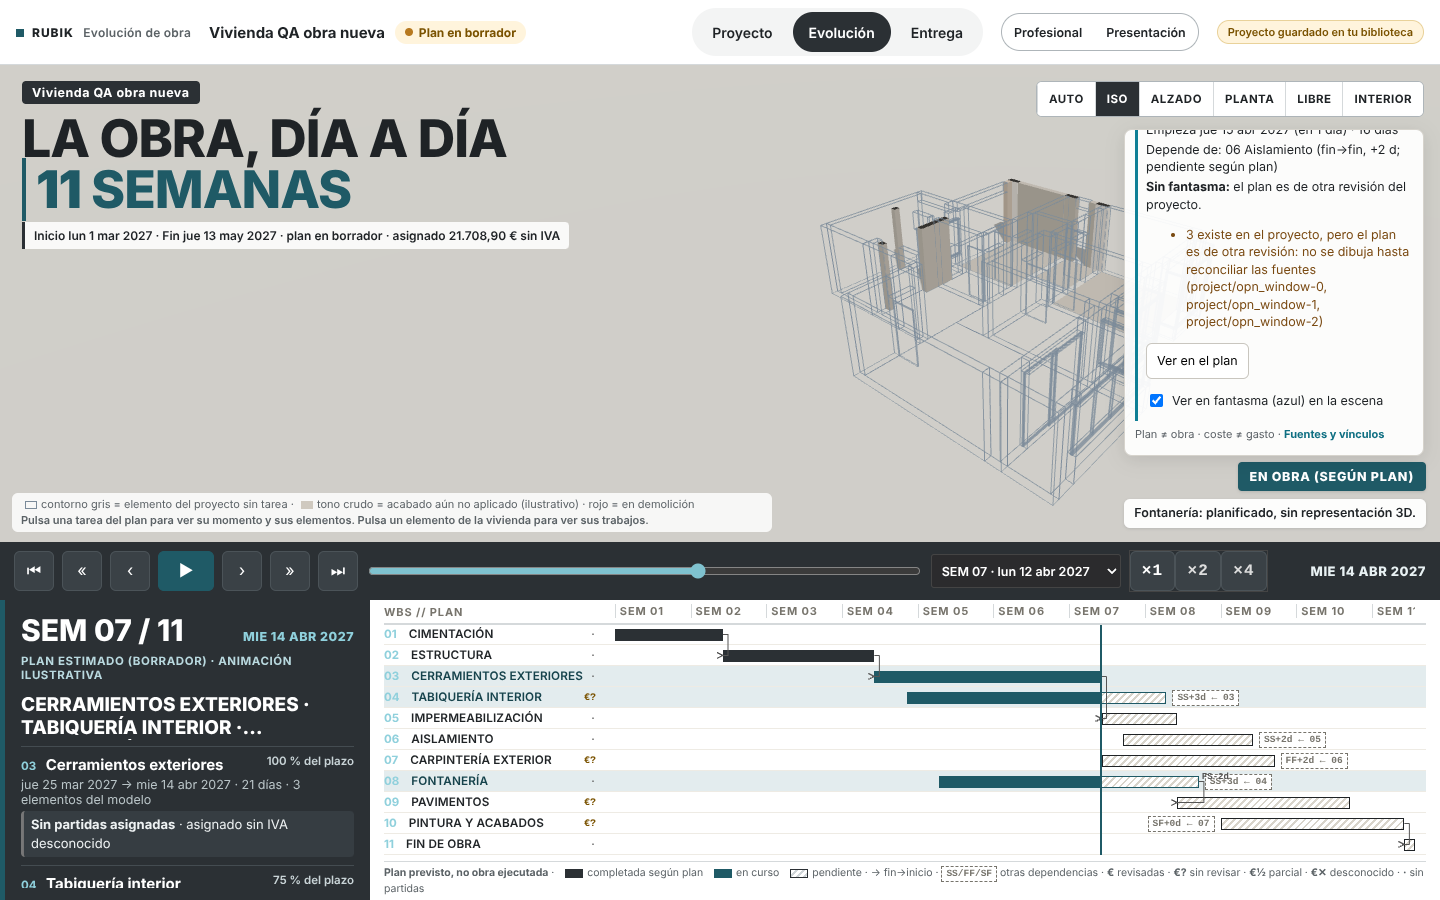
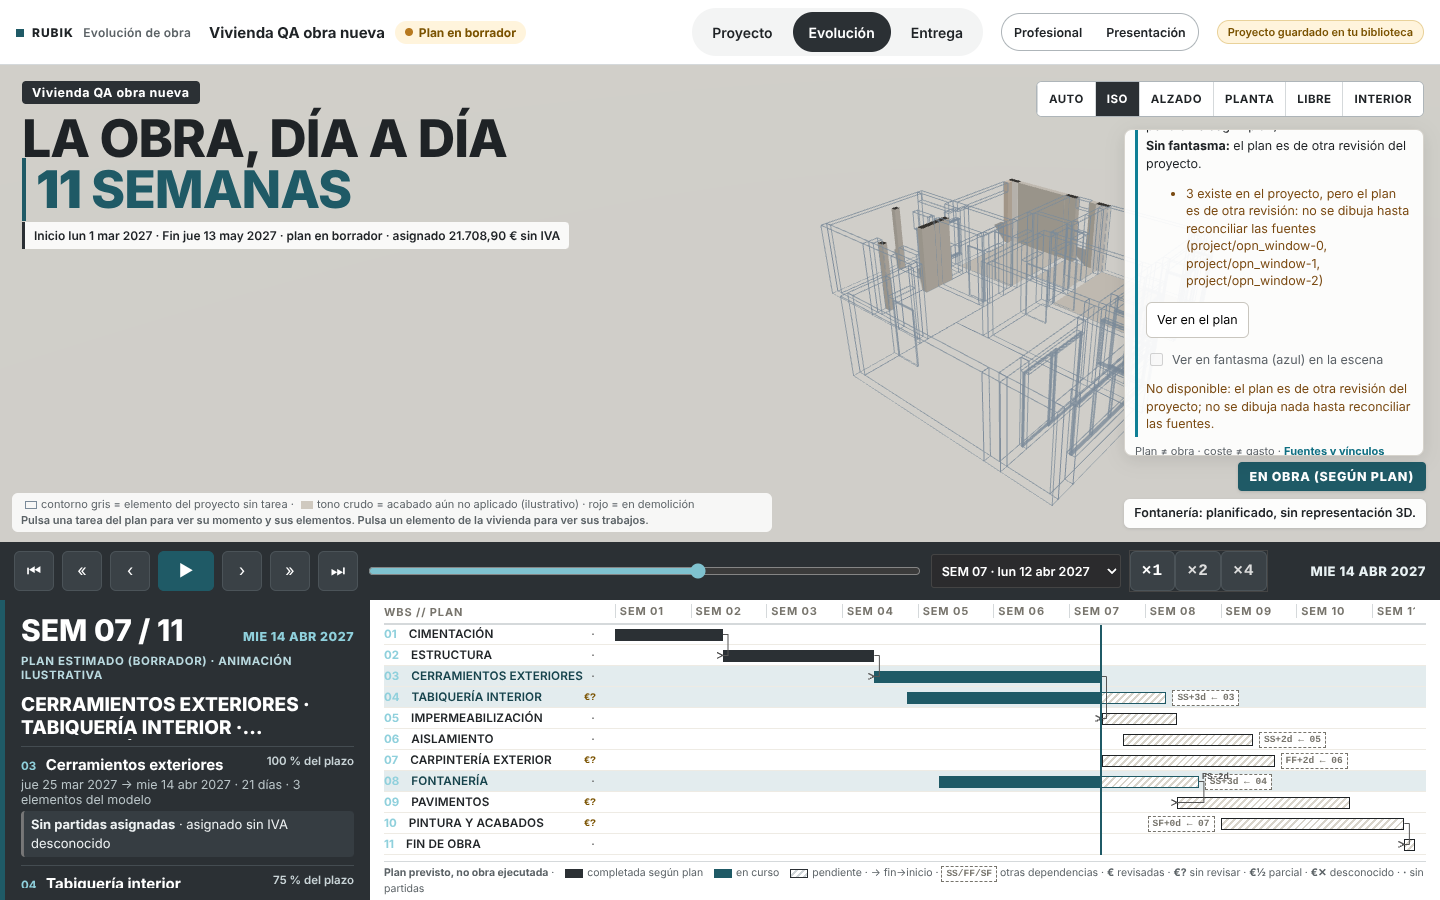
Revisión OBR-02/03: evidencias con la nota de otra revisión y la casilla del fantasma
Recorrido regenerado sobre esta rama (8e956fe, servida en local): 14/14 pasos, escritorio
1440×900 y móvil 390×844, sin errores de página ni hosts externos.
- 5c: nivel «Presentación orientativa» con «plan de otra revisión · no validado sobre la actual».
- 5d: «Ver en fantasma» deshabilitada, desmarcada y con su motivo.
- El caso 4 comprueba además la nota de nivel en el adversarial («Vista interna exploratoria · …»).
Textos de la página de revisión actualizados. Datos SINTÉTICOS y precios FICTICIOS.

Claude-Session: https://claude.ai/code/session_01QDzoLfqQpuKy2DPCpzcETs

Changed region(s): [[0.7812, 0.1556, 0.9688, 0.5289], [0.6875, 0.4044, 0.75, 0.56]]

diff --git a/review-obr02/index.html b/review-obr02/index.html
@@ -66,7 +66,7 @@ ol{padding-left:1.3em}li{margin:.3em 0}.muted{color:var(--muted)}#status{min-hei
     <button type="button" data-case="adversarial">Cargar y abrir el plan no concordante</button>
     <ol>
       <li>El plan es válido para el contrato, pero se hizo sobre <strong>otra revisión</strong> del proyecto y su tarea 10 cita un muro que <strong>no existe</strong>.</li>
-      <li>En <strong>Fuentes y vínculos</strong>: «hecho sobre OTRA revisión del proyecto», «vínculo(s) del plan apuntan a elementos que no existen» y el nivel baja a «Vista interna exploratoria».</li>
+      <li>En <strong>Fuentes y vínculos</strong>: «hecho sobre OTRA revisión del proyecto», «vínculo(s) del plan apuntan a elementos que no existen» y el nivel baja a «Vista interna exploratoria» (con la nota «plan de otra revisión · no validado sobre la actual»).</li>
       <li>Antes de la tarea 10, su «Siguiente tarea» lista «el identificador no existe en el proyecto: no se dibuja (project/wal_no-existe)». No aparece ningún fantasma: ni el inventado ni el de los elementos que sí existen, porque el plan es de otra revisión.</li>
     </ol>
   </section>
@@ -77,7 +77,8 @@ ol{padding-left:1.3em}li{margin:.3em 0}.muted{color:var(--muted)}#status{min-hei
     <ol>
       <li>El mismo plan del caso 1, sin vínculos rotos: solo cambia la revisión del proyecto sobre la que dice estar hecho.</li>
       <li>Los elementos que cita existen, pero <strong>no se dibuja ningún fantasma</strong> hasta reconciliar las fuentes: la «Siguiente tarea» dice «Sin fantasma: el plan es de otra revisión del proyecto» y lista cada elemento con «existe en el proyecto, pero el plan es de otra revisión».</li>
-      <li>En <strong>Fuentes y vínculos</strong>: «hecho sobre OTRA revisión del proyecto» y el aviso «No se dibuja ningún fantasma de este plan hasta reconciliar las fuentes». El nivel es el que calcula RUBIK (orientativo, bloqueado por revisión no vigente); no sube a plan declarado.</li>
+      <li>En <strong>Fuentes y vínculos</strong>: «hecho sobre OTRA revisión del proyecto» y el aviso «No se dibuja ningún fantasma de este plan hasta reconciliar las fuentes». El nivel es el que calcula RUBIK (orientativo, bloqueado por revisión no vigente; no sube a plan declarado) y a su lado dice «plan de otra revisión · no validado sobre la actual».</li>
+      <li>La casilla «Ver en fantasma» queda deshabilitada con su motivo: no hay nada dibujado. Con un plan concordante vuelve a estar marcada.</li>
     </ol>
   </section>
 

diff --git a/docs/integration/evidencias-obr02-obr03-2026-11-13-reconciliacion/README.md b/docs/integration/evidencias-obr02-obr03-2026-11-13-reconciliacion/README.md
@@ -2,7 +2,7 @@
 
 Recorrido `tests/obr02/preview-walkthrough.cjs` sobre el árbol de la rama de revisión
 `review/obr02-obr03-reconcile-20261113` (integración `integration/obr02-obr03-reconcile-20261113`
-sobre `master@f5c08c7` + #211 + cierre P1 + ficha encima del panel), servido en local.
+sobre `master@f5c08c7` + #211 + cierre P1 + ficha encima del panel + nota de otra revisión y casilla del fantasma), servido en local.
 Chromium de Playwright con SwiftShader (sin GPU): **no es un dispositivo físico**.
 Escritorio 1440×900 y móvil 390×844 (táctil). Detalle, SHA-256 de cada captura y resultado
 de cada paso en `manifest.json`: 14/14 pasos correctos, sin errores de página ni hosts externos.
@@ -15,8 +15,10 @@ clientes, avance ejecutado, gastos reales ni vínculos documentales.
 | 1 · 1b | Con presupuesto: % del calendario, coste planificado (supuesto), «Ejecutado: sin registrar»; fuentes y vínculos; fantasma = 3 vínculos comprobados |
 | 2 | OBR-01 con el fantasma encendido: clic (escritorio) y toque (móvil) reales en `project/wal_ref-w0` → su ficha, encima del panel del plan |
 | 3 | Sin presupuesto: «No disponible», nunca 0 € |
-| 4 · 4b | Adversarial (otra revisión + vínculo roto): vínculo roto listado, **ningún fantasma**, «Vista interna exploratoria» |
-| 5 · 5b | Otra revisión con elementos que **sí existen**: ningún fantasma, «Sin fantasma: el plan es de otra revisión», aviso «hasta reconciliar las fuentes»; nivel calculado por el adaptador: «Presentación orientativa» |
+| 4 · 4b | Adversarial (otra revisión + vínculo roto): vínculo roto listado, **ningún fantasma**, «Vista interna exploratoria · plan de otra revisión · no validado sobre la actual» |
+| 5 · 5b | Otra revisión con elementos que **sí existen**: ningún fantasma, «Sin fantasma: el plan es de otra revisión», aviso «hasta reconciliar las fuentes» |
+| 5c | Nivel calculado por el adaptador («Presentación orientativa») con la nota «plan de otra revisión · no validado sobre la actual» |
+| 5d | Casilla «Ver en fantasma» deshabilitada, desmarcada y con su motivo |
 
 **Pendiente:** la fidelidad con un expediente real no está probada. Requiere una prueba
 autorizada por el propietario con un proyecto real, y esta demostración no la sustituye.
